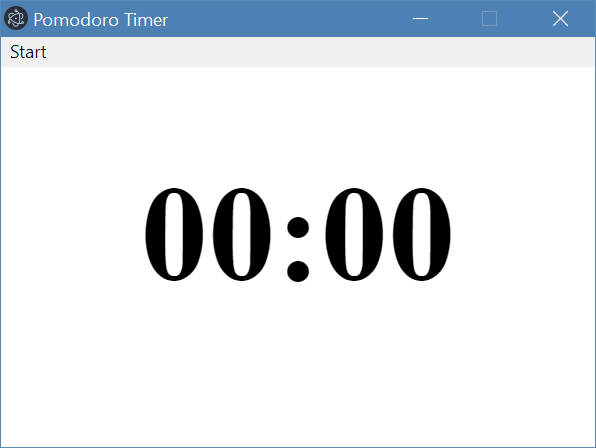
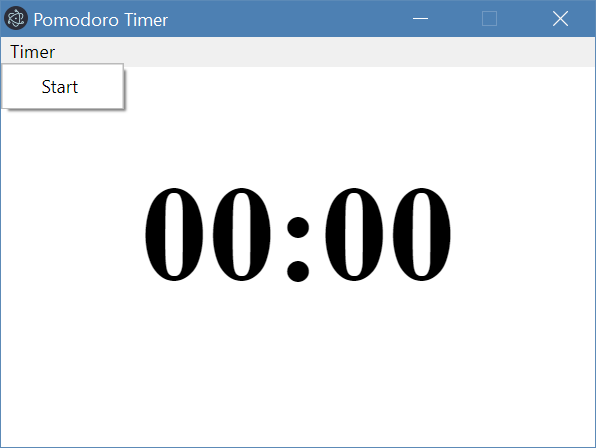
Lesson 2 - Fix menus on macOS

Changed region(s): [[0.0, 0.0938, 0.2114, 0.25]]

diff --git a/lesson-2/finished-code/main.js b/lesson-2/finished-code/main.js
@@ -7,12 +7,15 @@ let mainWindow
 
 // TODO: PART 3 - B
 let template = [{
-  label: 'Start',
-  click: function (item, focusedWindow) {
-    if (focusedWindow) {
-      focusedWindow.webContents.send('start timer', 5);
+  label: 'Timer',
+  submenu: [{
+    label: 'Start',
+    click: function (item, focusedWindow) {
+      if (focusedWindow) {
+        focusedWindow.webContents.send('start timer', 5);
+      }
     }
-  }
+  }]
 }]
 
 function createWindow () {

diff --git a/lesson-2/README.md b/lesson-2/README.md
@@ -48,10 +48,15 @@ Menu.setApplicationMenu(null)
 Now let’s define the menu object ‘template’ at `TODO: PART 3 - B`:
 ```js
 let template = [{
-  label: 'Start'
+  label: 'Timer',
+  submenu: [{
+    label: 'Start'
+  }]
 }]
 ```
-If you run the app now, you will see that there is a button called `start` on the top left, but clicking it doesn’t do anything yet, because we haven’t connected the button with the renderer script.
+If you run the app now, you will see that there is a button called `Timer` on the top left. The `Timer` button opens up a submenu with a single option `Start`, but clicking the `Start` button doesn’t do anything yet, because we haven’t connected the button with the renderer script.
+
+Note: On macOS, your menu is on the top left. It is going to say `Electron` instead of `Timer` because in macOS the first menu item is always the name of the application. Since currently we are running the app through npm, it is always going to say `Electron`. You will be able to change the name of your application when you package and deploy it.
 
 ![Part 2 Progress](part-3.png)
 ## Part 4 - Connect menu with timer
@@ -61,7 +66,7 @@ There are two js files inside your project folder so far, and they run in separa
 
 However, communication between processes is difficult, but luckily, electron has an easy-to-use ipc(interprocess communication) API. Using this API, you can send any messages with a channel name between any processes.
 
-Inside your menu template object (at `TODO: PART 2 - B`), add a click handler for the start button:
+Inside your menu template object (at `TODO: PART 3 - B`), add a click handler for the start button:
 ```js
 click: function (item, focusedWindow) {
   if (focusedWindow) {
@@ -97,5 +102,4 @@ Now you should have a basic pomodoro app working!
 
 ## Part 5 - Bonus Challenges
 1. Add more options to the menu to start different timers.
-2. Too many menu items can clutter the screen, explore how sub-menu works
 
